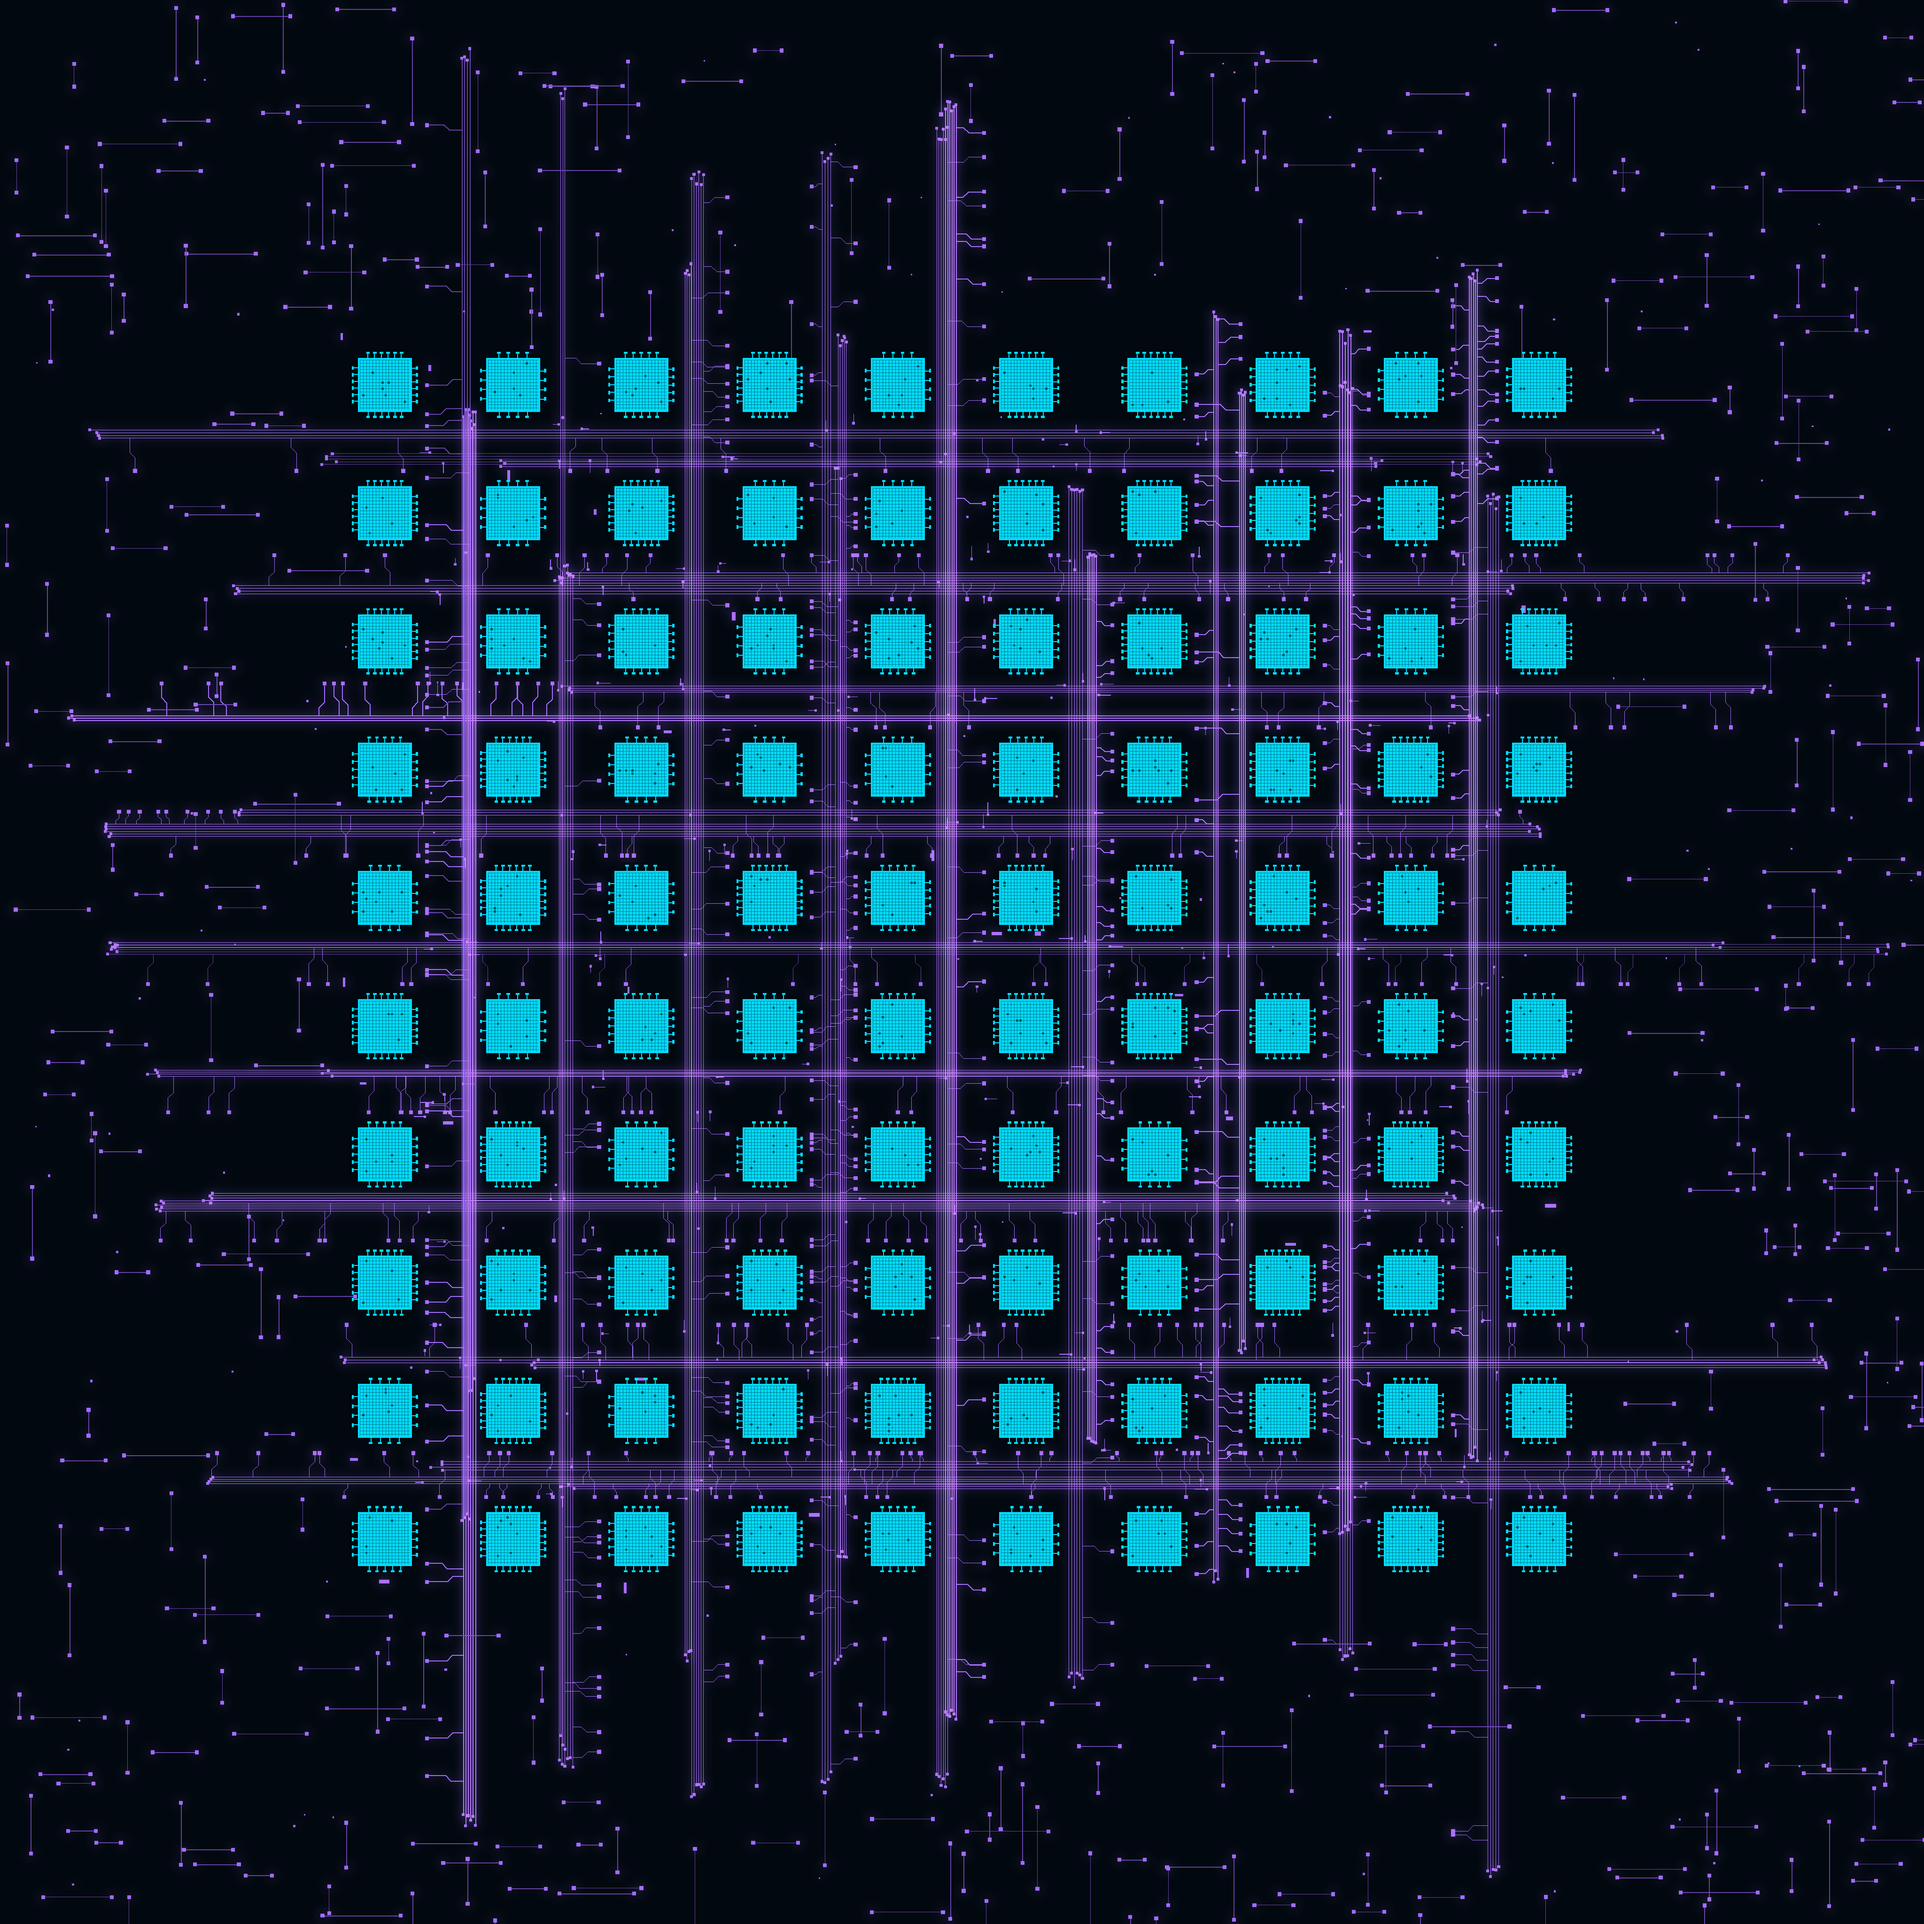
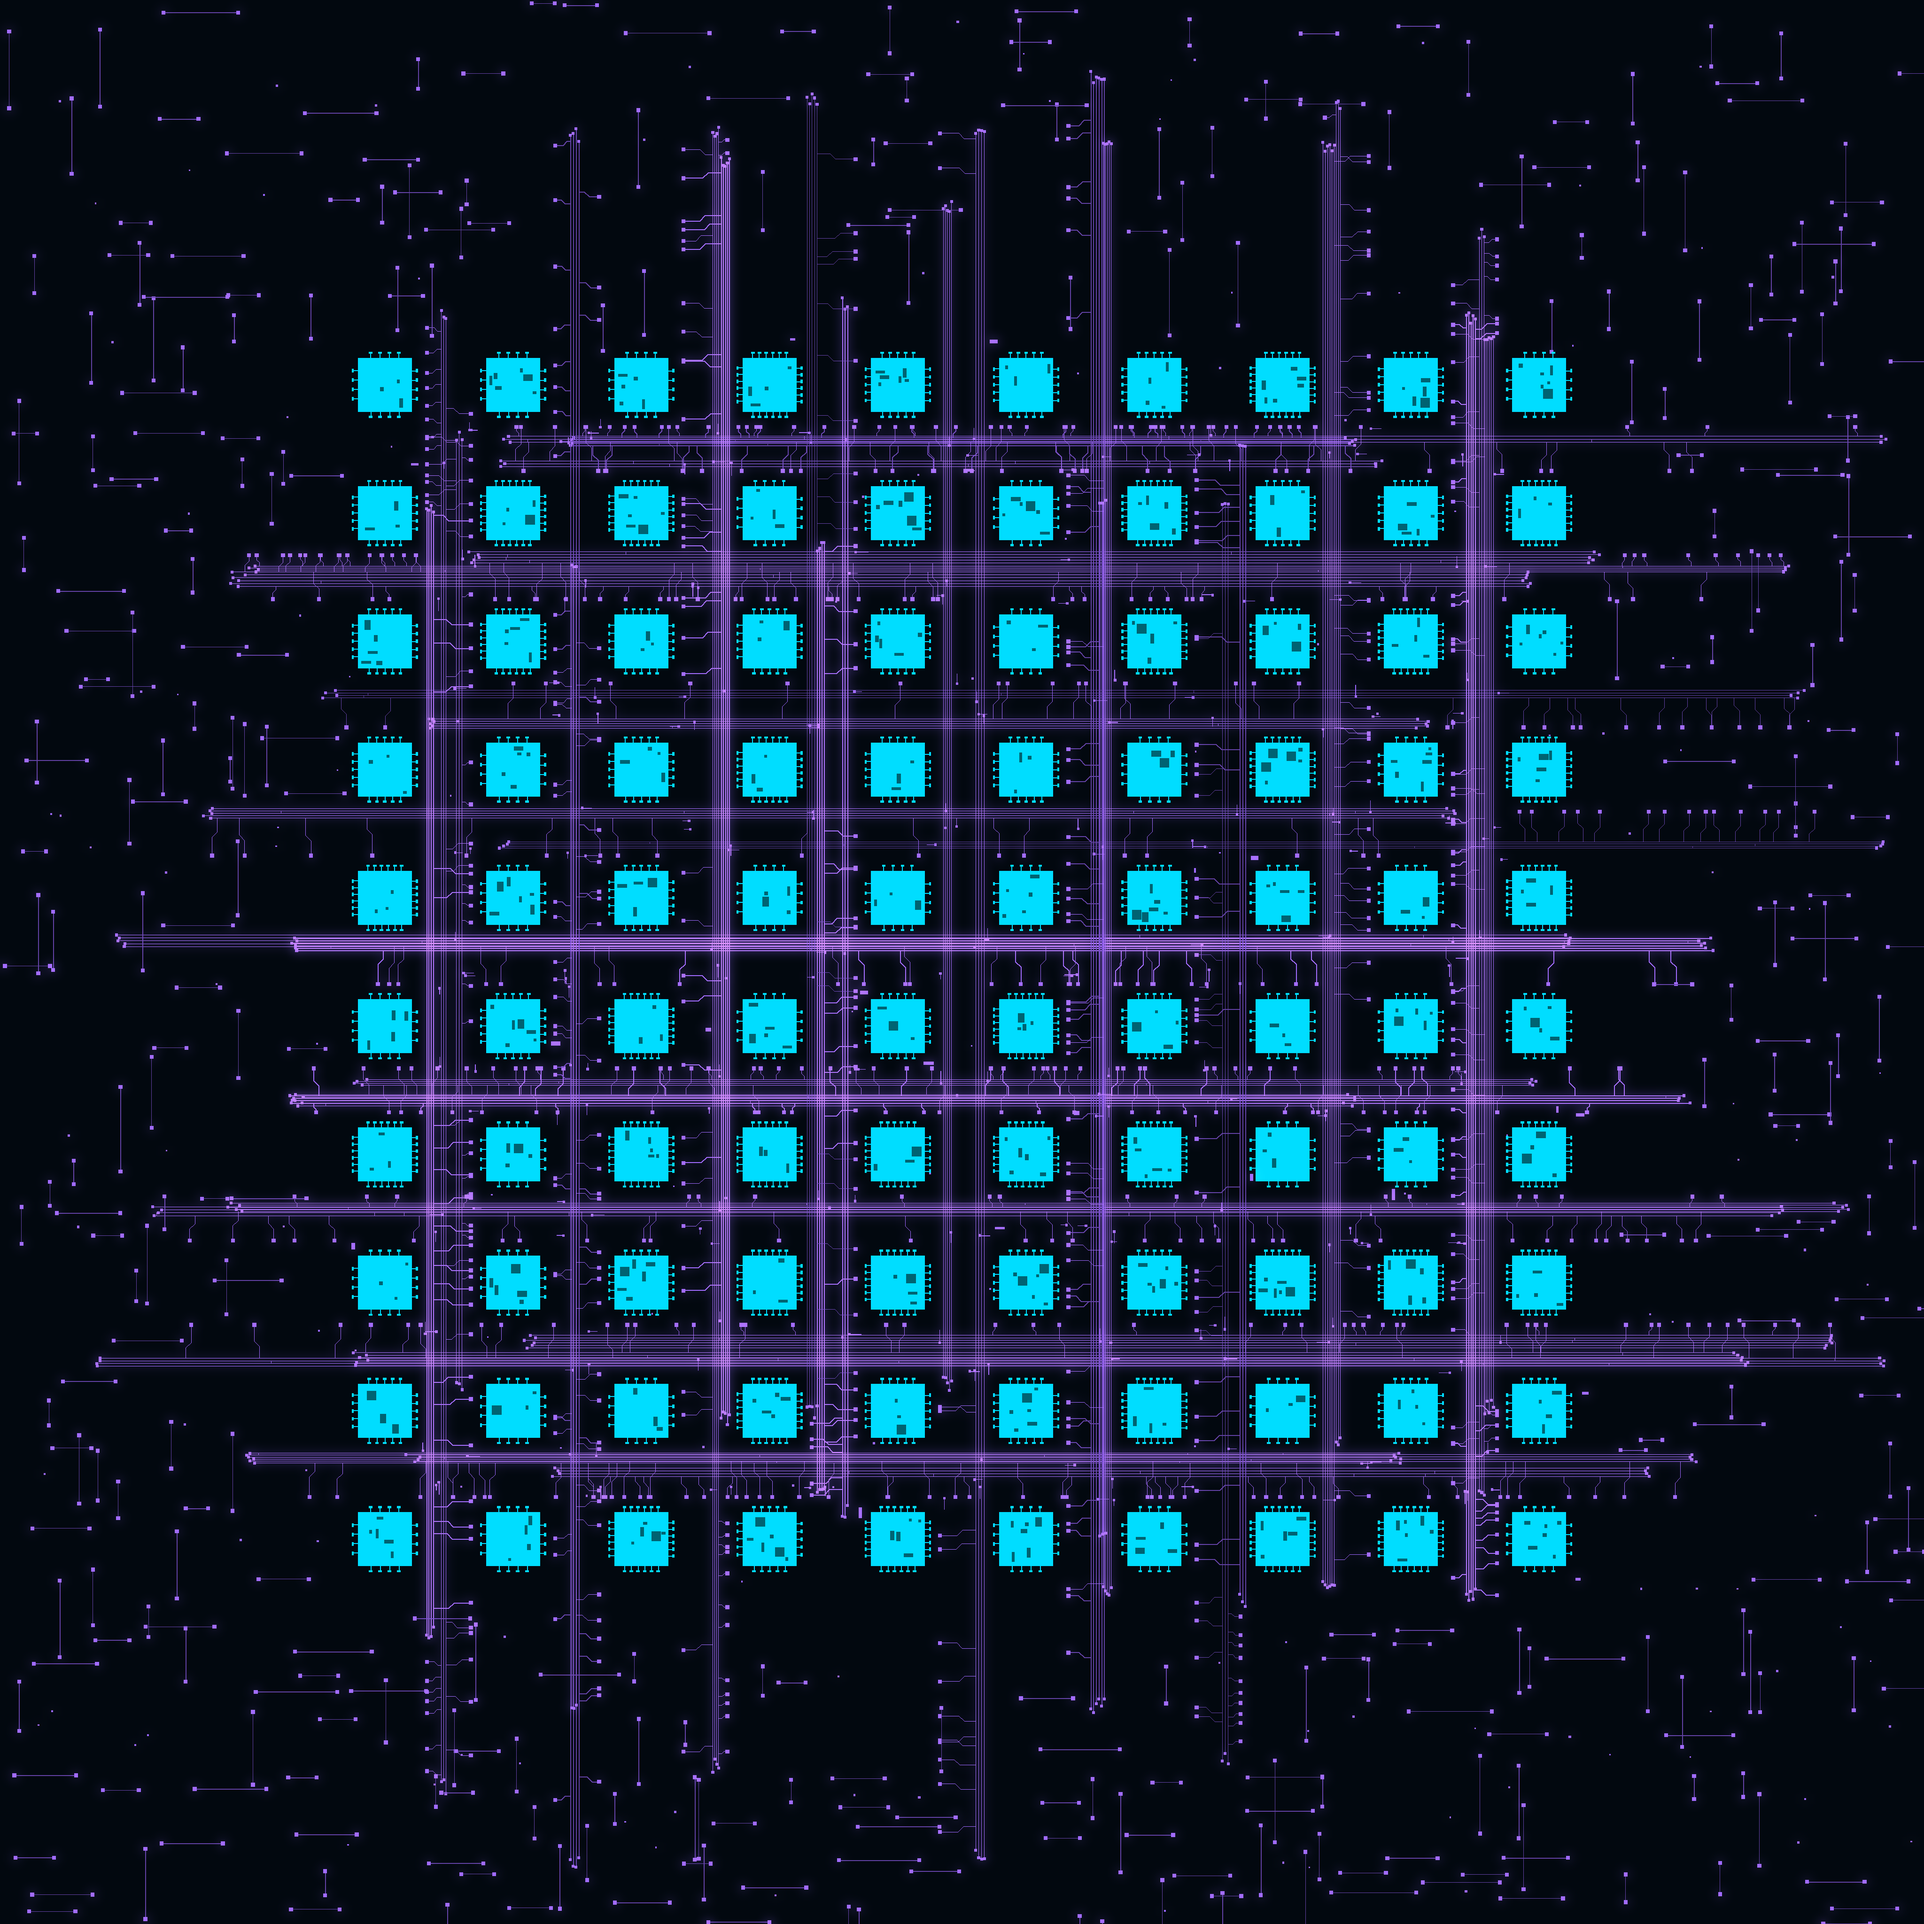
hackers: organic bundles, fix pad overlaps, sparse tower-base pads
User feedback (2026-05-04):
1. "more complex bundles ... not just more straight buses" — added
   intra-bundle rungs (3-6 short perpendicular segments per bundle
   connecting adjacent traces, creates ladder/circuit-board look).
2. "a bunch of the pads are overlapping stuff" — scattered "via"
   markers now run _pad_clear() against the full trace network
   AND a per-via spacing check so they don't pile on each other.
   Try-budget capped at 6× target so heavily-traced floors still
   place most vias.
3. "the crosshatch in the tower floors looks like a go board" —
   replaced the regular grid with sparse asymmetric chip-pad
   accents: 3-6 darker-cyan rectangles per tower in random
   positions/sizes, with collision rejection. Reads as PCB
   silkscreen markings, no repeating uniform pattern.

diff --git a/tools/gen_floor.py b/tools/gen_floor.py
@@ -133,62 +133,39 @@ def add_tower_base_detail(
     rng: random.Random,
     tower_color: str,
 ) -> None:
-    """Lay down a fine grid + scattered chip detail inside each tower
-    footprint (after overpaint_tower_bboxes). Replaces the flat-cyan
-    tower base with a circuit-board / mesh look per Hackers refs
-    (user 2026-05-03 "tower glass closeup is a good example").
+    """Sparse asymmetric chip-pad accents inside each tower footprint.
+    Earlier cross-hatch grid version read as a Go-board (user 2026-05-04
+    "looks like a go board"); replaced with random-scattered darker
+    rectangles of varying sizes — closer to PCB silkscreen markings,
+    no repeating axis-aligned uniformity.
     """
-    grid_color = shade(tower_color, 0.55)
-    accent_color = shade(tower_color, 0.40)
+    accent_color = shade(tower_color, 0.45)
     half_t = spec.tower_w / 2
-    # Inset so grid doesn't touch the very edge of the bright fill
-    inset = 0.18
-    grid_step = 0.30
+    inset = 0.25
     for ix in range(spec.tower_count):
         for iz in range(spec.tower_count):
             cx, cz = spec.tower_world_pos(ix, iz)
-            # Fine cross-hatch grid
-            n = int((spec.tower_w - 2 * inset) / grid_step)
-            for k in range(n + 1):
-                t = -half_t + inset + k * grid_step
-                # Horizontal grid line
-                draw_line_units(
-                    draw,
-                    spec,
-                    cx - half_t + inset,
-                    cz + t,
-                    cx + half_t - inset,
-                    cz + t,
-                    0.022,
-                    grid_color,
-                )
-                # Vertical grid line
-                draw_line_units(
-                    draw,
-                    spec,
-                    cx + t,
-                    cz - half_t + inset,
-                    cx + t,
-                    cz + half_t - inset,
-                    0.022,
-                    grid_color,
-                )
-            # Sparse chip-pad accents: 4-7 small squares scattered
-            # at random grid intersections inside the bbox.
-            for _ in range(rng.randint(4, 7)):
-                gi = rng.randint(1, n - 1)
-                gj = rng.randint(1, n - 1)
-                ax = -half_t + inset + gi * grid_step
-                az = -half_t + inset + gj * grid_step
-                draw_rect_units(
-                    draw,
-                    spec,
-                    cx + ax,
-                    cz + az,
-                    grid_step * 0.55,
-                    grid_step * 0.55,
-                    accent_color,
-                )
+            placed: list[tuple[float, float, float, float]] = []
+            n_marks = rng.randint(3, 6)
+            tries = 0
+            while len(placed) < n_marks and tries < 40:
+                tries += 1
+                w = rng.choice([0.22, 0.32, 0.32, 0.55, 0.85])
+                h = rng.choice([0.22, 0.32, 0.85])
+                if rng.random() < 0.5:
+                    w, h = h, w
+                ax = rng.uniform(-half_t + inset + w / 2, half_t - inset - w / 2)
+                az = rng.uniform(-half_t + inset + h / 2, half_t - inset - h / 2)
+                # Reject if overlapping any prior mark
+                clear = True
+                for px, pz, pw, ph in placed:
+                    if abs(px - ax) < (pw + w) / 2 + 0.08 and abs(pz - az) < (ph + h) / 2 + 0.08:
+                        clear = False
+                        break
+                if not clear:
+                    continue
+                placed.append((ax, az, w, h))
+                draw_rect_units(draw, spec, cx + ax, cz + az, w, h, accent_color)
 
 
 def is_in_tower(spec: FloorSpec, x: float, z: float, margin: float = 0.0) -> bool:
@@ -332,6 +309,19 @@ def bake(
                 # always reject; they look fine inside their bundle.
                 draw_rect_units(draw, spec, x0, zt, pad_size * 0.7, pad_size * 0.7, primary)
                 draw_rect_units(draw, spec, x1, zt, pad_size * 0.7, pad_size * 0.7, primary)
+            # Intra-bundle rungs: short perpendicular segments connecting
+            # adjacent traces in the bundle, creating a ladder-like
+            # organic structure (refs show bundles with rung crossbars,
+            # not just parallel buses). 3-6 rungs per bundle at random
+            # x positions inside the bundle's run.
+            n_rungs = rng.randint(3, 6)
+            for _r in range(n_rungs):
+                rx = rng.uniform(bx0 + 0.5, bx1 - 0.5)
+                # Pick 2 adjacent rows in the bundle
+                k0 = rng.randint(0, max(0, bsize - 2))
+                z_top = bz_center - bwidth / 2 + k0 * bspacing
+                z_bot = bz_center - bwidth / 2 + (k0 + 1) * bspacing
+                _line(rx, z_top, rx, z_bot, bw * 0.8, bcolor)
             h_bundle_meta.append((bz_center, bwidth, bx0, bx1, bw, bcolor, z_lo, z_hi))
 
     # 2b. Vertical lane bus traces (no spurs yet).
@@ -513,17 +503,35 @@ def bake(
                 )
 
     # 5c. Sprinkled "via" markers — small purple squares scattered
-    #     across the floor (avoiding tower bboxes). Per refs the floor
-    #     reads as a busy circuit board with many small connection
-    #     points, not just the structured bus + spurs.
+    #     across the floor (avoiding tower bboxes AND existing trace
+    #     network so they don't sit visibly on top of an unrelated
+    #     bus line). Per refs the floor reads as a busy circuit board
+    #     with many small connection points.
     via_count = int(spec.field_size * 1.2)
-    for _ in range(via_count):
+    placed_vias: list[tuple[float, float, float]] = []
+    tries = 0
+    target = 0
+    while target < via_count and tries < via_count * 6:
+        tries += 1
         vx = rng.uniform(-half + 1, half - 1)
         vz = rng.uniform(-half + 1, half - 1)
-        if is_in_tower(spec, vx, vz, margin=0.2):
+        if is_in_tower(spec, vx, vz, margin=0.3):
             continue
         size = rng.choice([0.10, 0.12, 0.14, 0.18])
+        # Reject if this via would land on an existing trace
+        if not _pad_clear(vx, vz, size, size, clearance=0.05):
+            continue
+        # Reject if too close to another via
+        too_close = False
+        for px, pz, ps in placed_vias:
+            if abs(px - vx) < (ps + size) / 2 + 0.18 and abs(pz - vz) < (ps + size) / 2 + 0.18:
+                too_close = True
+                break
+        if too_close:
+            continue
+        placed_vias.append((vx, vz, size))
         draw_rect_units(draw, spec, vx, vz, size, size, primary)
+        target += 1
 
     # 6. Tower footprints = bright "hole into a bright light" visible
     #    through translucent tower glass. Uses tower_color (cyan, matches
